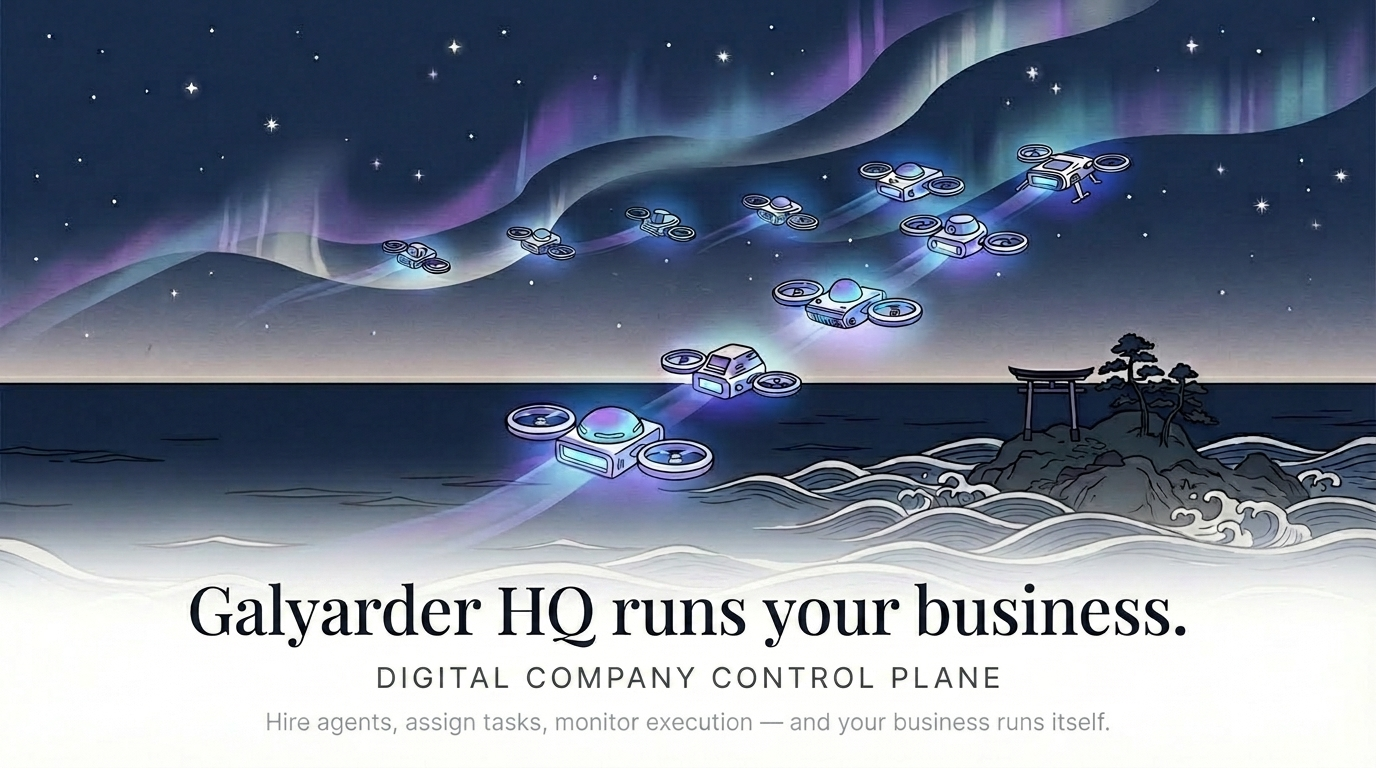
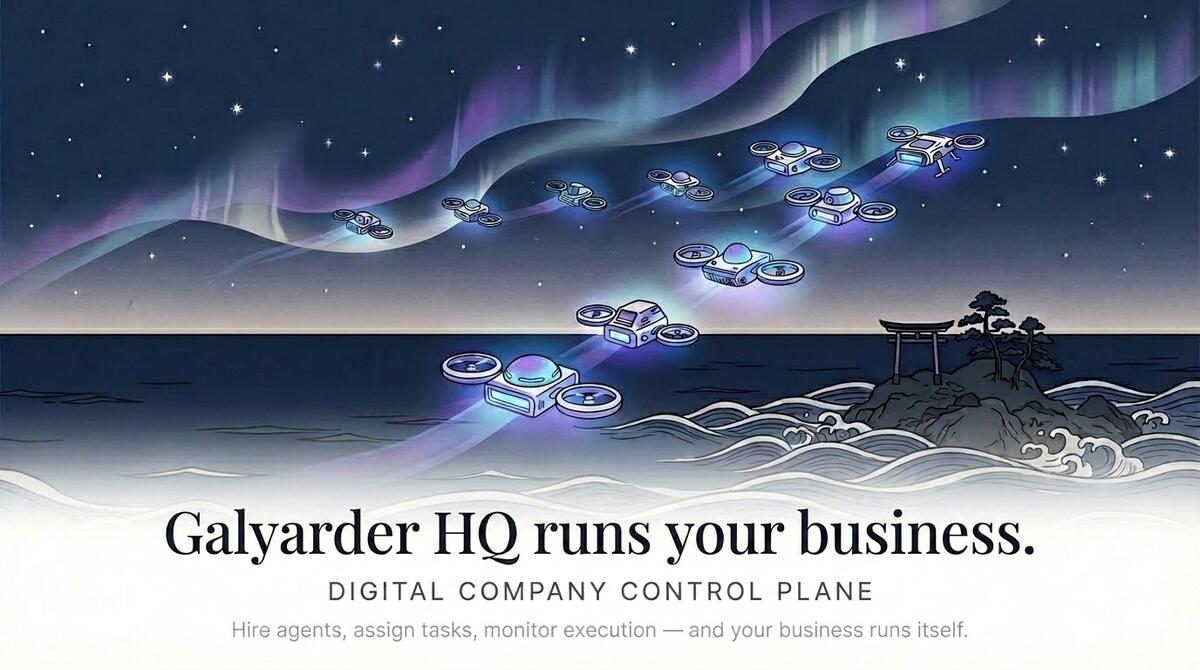
chore: optimize image (621KB -> 96KB) + add CHANGELOG

diff --git a/CHANGELOG.md b/CHANGELOG.md
@@ -1,0 +1,34 @@
+# Changelog
+
+All notable changes to Galyarder HQ will be documented in this file.
+
+## [1.0.0] - 2026-04-11
+
+![Galyarder HQ](doc/assets/G-HQ.jpeg)
+
+### Initial Release
+
+Galyarder HQ — the control plane for AI-native companies.
+
+**Core Features:**
+- Multi-company management with complete data isolation
+- Agent orchestration with org charts and reporting lines
+- Heartbeat-based autonomous execution (24/7)
+- Cost tracking and budget enforcement per agent
+- Full audit trail — every tool call, every decision logged
+- Governance controls — approval gates, config versioning, rollback
+- Real-time activity feed and execution monitoring
+- Mobile-ready interface
+- Embedded PGlite for zero-setup local development
+
+**Supported Adapters:**
+- Claude Code (`claude_local`)
+- Codex (`codex_local`)
+- Cursor (`cursor`)
+- Gemini (`gemini_local`)
+- OpenCode (`opencode_local`)
+- HTTP (`http`) — any agent via REST
+- External plugins via `~/.galyarder/adapter-plugins.json`
+
+**Framework Integration:**
+- Works with [Galyarder Framework](https://github.com/galyarderlabs/galyarder-framework) — 35 agents, 132 skills
